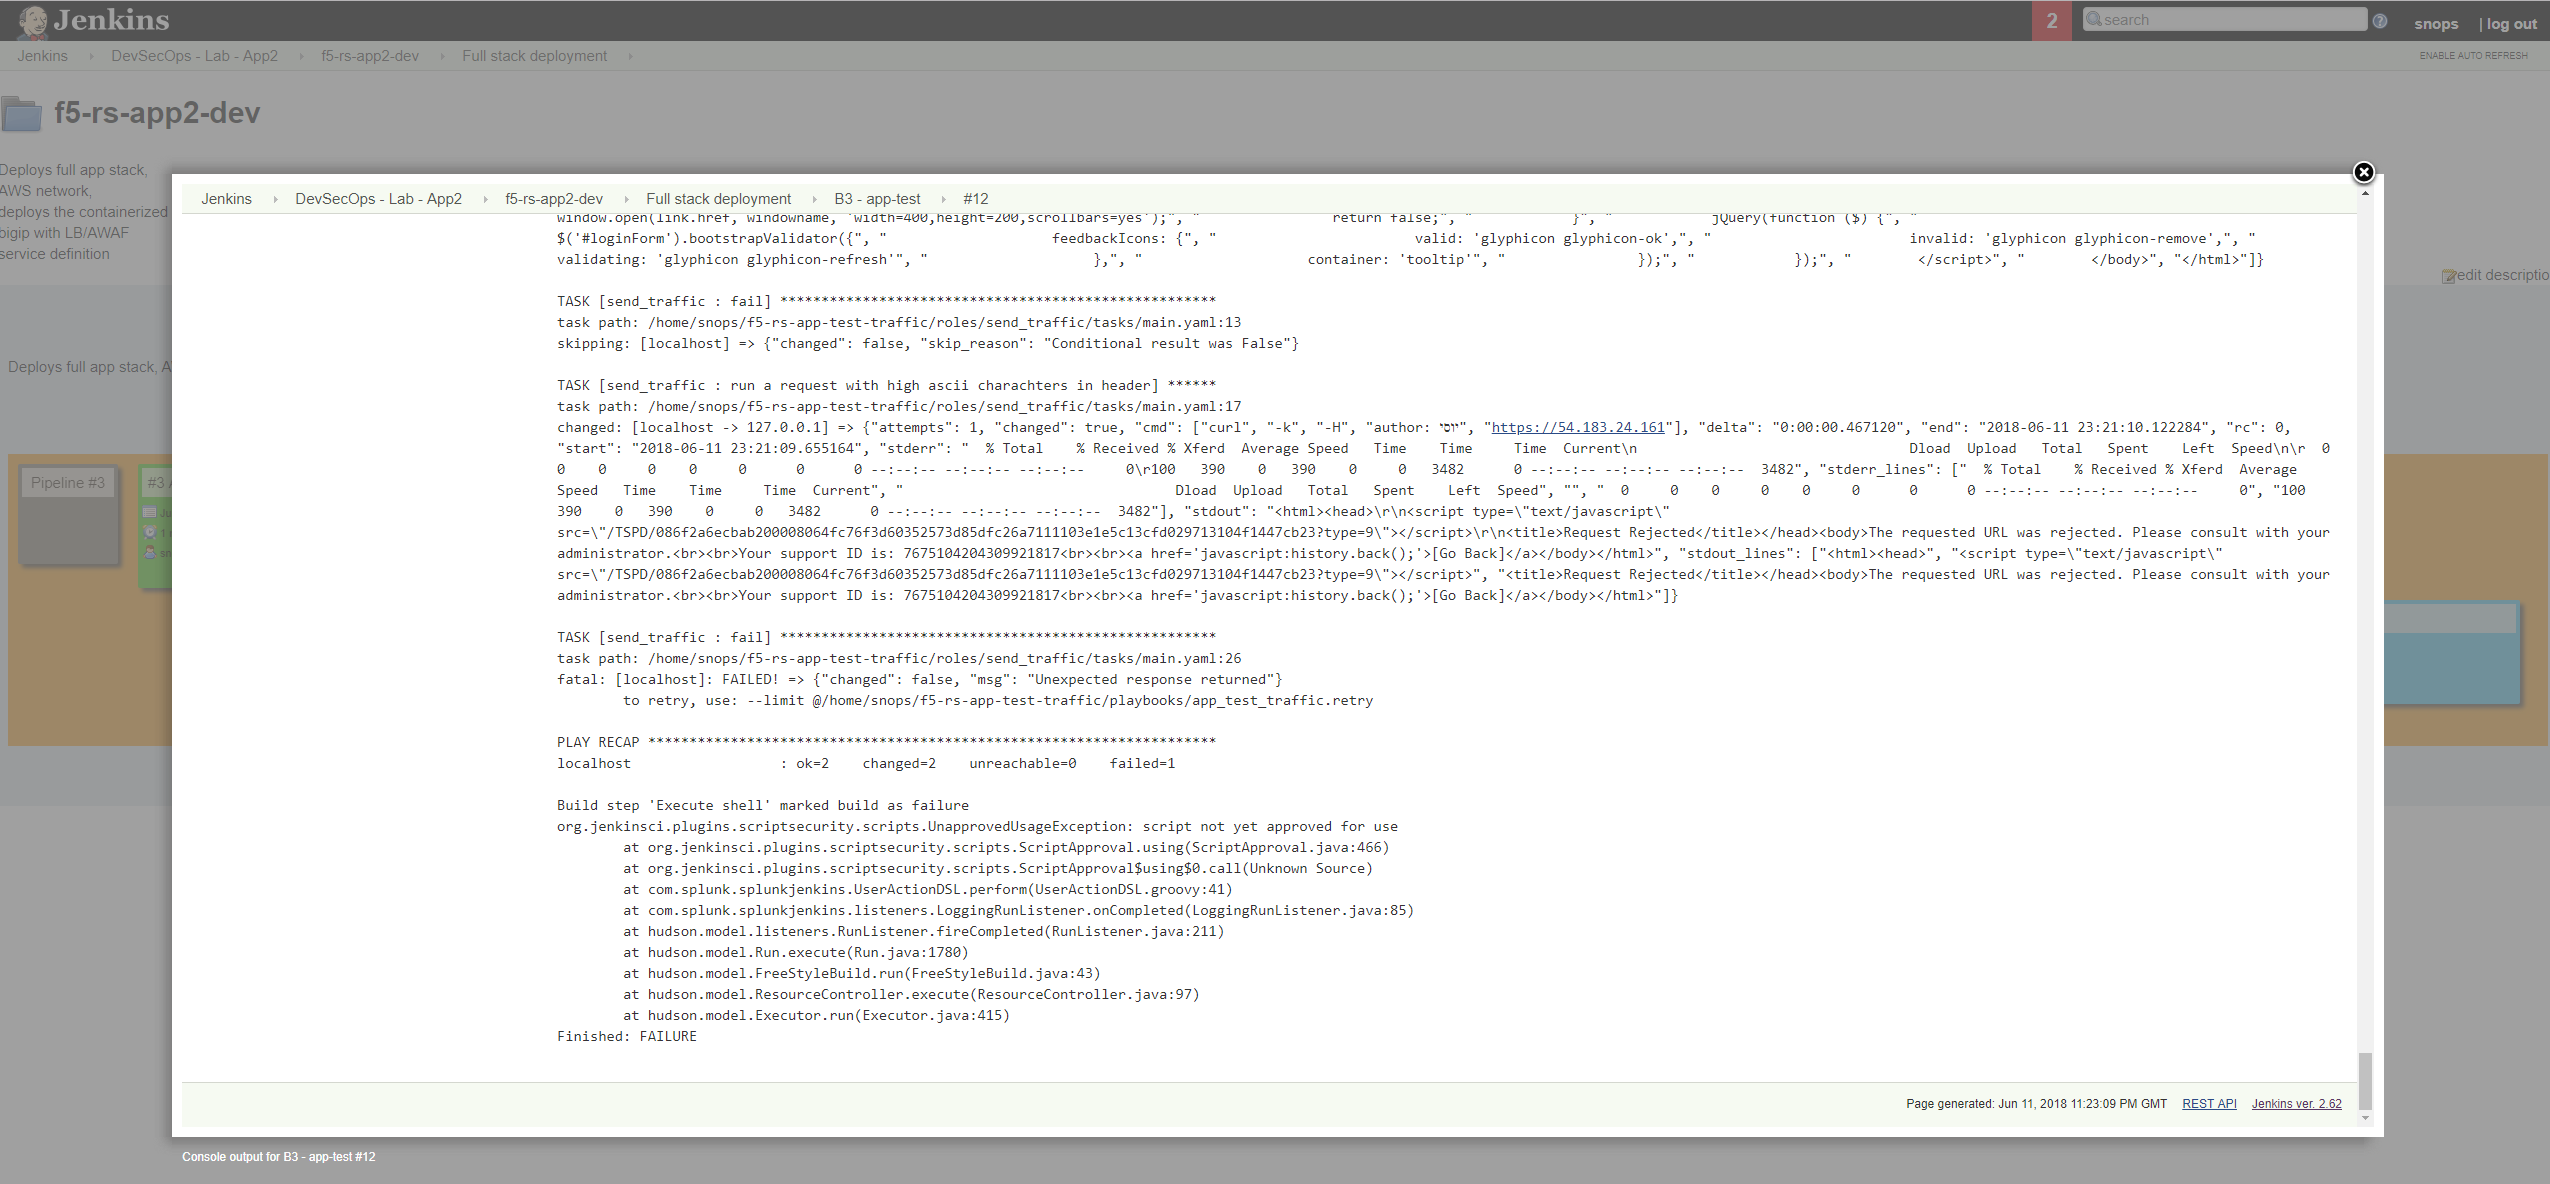
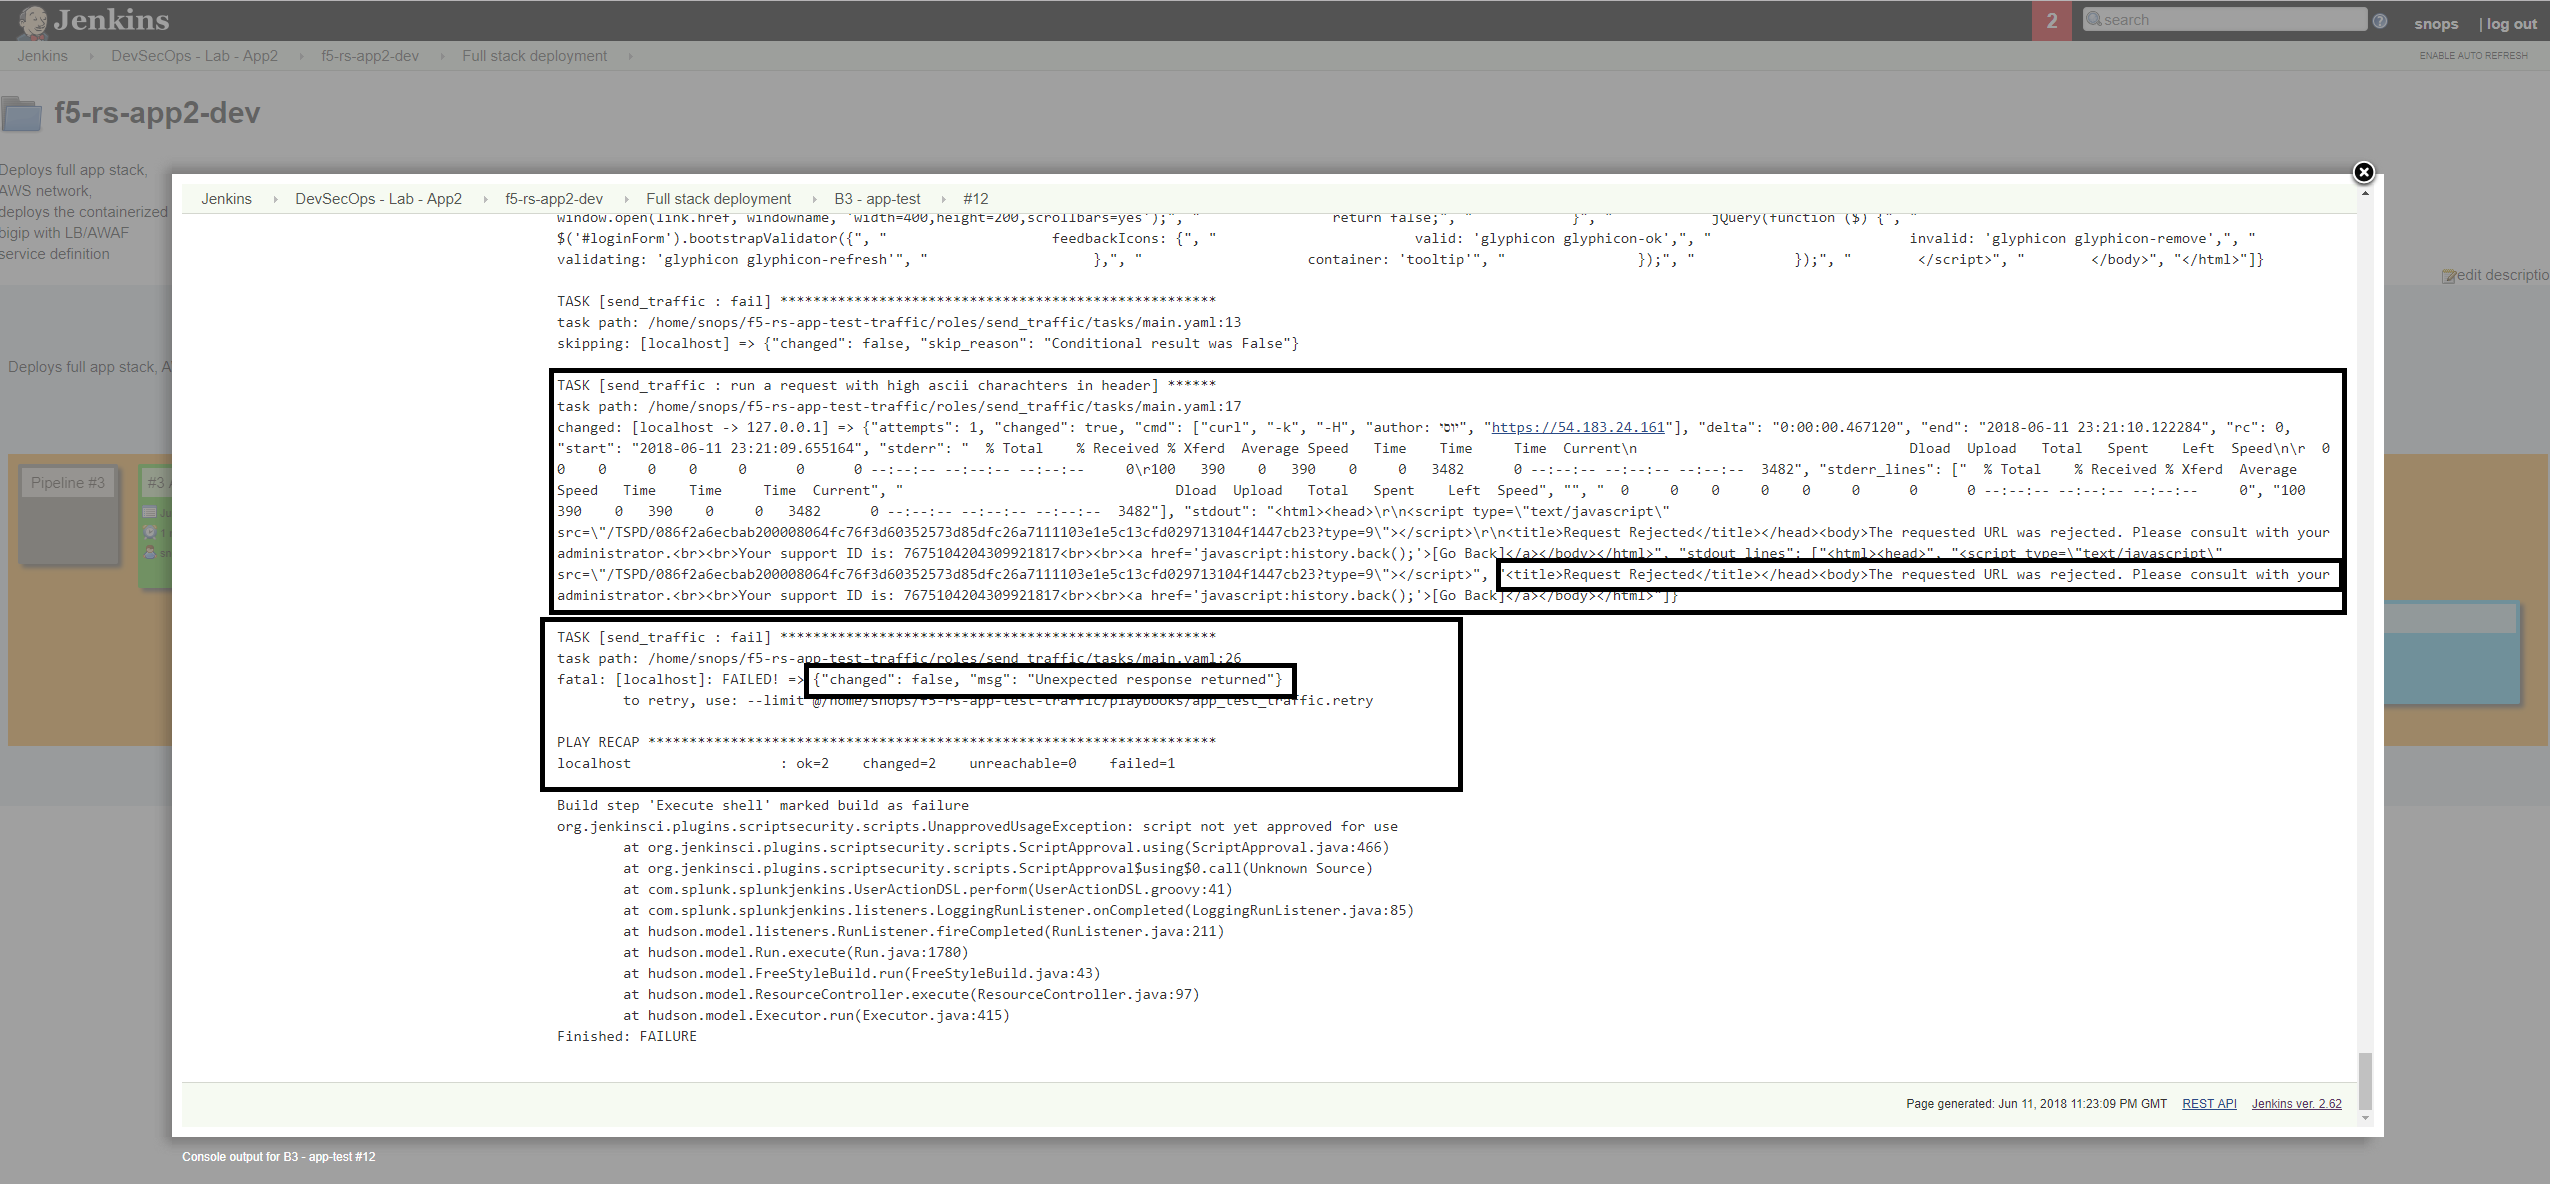
fixes

diff --git a/docs/solutions/devsecops/module1/lab3.rst b/docs/solutions/devsecops/module1/lab3.rst
@@ -1,20 +1,22 @@
-Lab 3: Deploy with new waf policy 
+Lab 3: (Dave) Deploy with a new waf policy 
 ----------------------------
 
 Background: 
 ~~~~~~~~~~~~~
 
-secops found a false positive on the waf policy, they fixed it and created a new version for that policy. 
+secops found a false positive on the waf policy template, they fixed it and created a new version for that policy. 
  
  
-Task 1 (Dave) - Update the policy you are using in 'DEV' 
+Task 1 - Update the policy you are using in 'DEV' 
 ~~~~~~~~~~~~~~~~~~~~~~~~~~~~~~~~~~~~~~~~~~~~~~~~~~~~~~~~
 
-deploy to dev again:
-~~~~~~~~~~~~~~~~~~~
+Update the infrastructure as code parameters file:
+~~~~~~~~~~~~~~~~~~~~~~~~~~~~~~~~~~~~~~~~~~~~~~~~~~~~~~
 
-ssh into the contianer, make sure you are connected as user 'jenkins' 
-go to the application git folder. check which branches are there and what is the active branch. (git branch) 
+we (Dave) got the message on a new waf template, we need to deploy the new template to the DEV environment.
+to do so we will edit the 'infrastructure as code' parameters file in dave's app2 repo. 
+ 
+go to the container CLI, go to the application git folder. check which branches are there and what is the active branch. (git branch) 
 you should be on the 'dev' branch. the files you see belong to the dev branch. 
 
 .. code-block:: terminal
@@ -30,34 +32,44 @@ Configure your information in git, this information is used by git (in this lab 
    git config --global user.name "Your Name"
    
  
-edit the iac_parameters.yaml file to point the deployment to the new ASM policy (linux-high-v01). then add the file to git and commit 
+edit the iac_parameters.yaml file to point the deployment to the new ASM policy (linux-high-v01). then add the file to git and commit.
+
+ - change line: waf_policy_name: "linux-high"
+ - to: waf_policy_name: "linux-high-v01"
 
 .. code-block:: terminal
 
    vi iac_parameters.yaml 
    git add iac_parameters.yaml
    git commit -m "changed asm policy"
-
-
    
    |dev-cmd-010|
    
-   
-go back to jenkins and open the 'f5-rs-app2-dev ' folder. choose the 'waf policy' tab , jenkins is set up to monitor the application repo. when a 'commit' is identified jenkins will start an automatic pipeline to deploy the service. it takes up to a minute for jenkins to start the pipeline. 
 
-jenkins takes the parametes from the git repo and uses them to deploy/update the service. 
+Service deployment update:
+~~~~~~~~~~~~~~~~~~~~~~~~~~~
 
-log on to the bigip again, check which ASM policies are there and which policy is attached to the 'App2 VIP. 
-check the 'traffic learning' for the security policy and verify you no longer see the 'high ascii charachters' 
+- we now have an active DEV environment, the app, network and bigip shouldn't change. 
+  the only change is to the SERVICE deployed on the Bigip. 
 
+- we have a dedicated pipeline view for the Service deployment. 
+
+- jenkins is set up to monitor the application repo. when a 'commit' is identified jenkins will start an
+  automatic pipeline to deploy the service. Jenkins takes the parameters from the file and uses them to start the ansible playbooks that will push the changes to the bigip. 
+  
+- that way it will update the waf policy on the bigip
+
+- go back to jenkins and open the 'f5-rs-app2-dev ' folder. choose the 'waf policy' tab ,  it takes up to 
+  a minute for jenkins to start the pipeline. you should see that the tasks start to run and the pipeline finishes successfully. 
+
+
+- log on to the bigip again, check which ASM policies are there and which policy is attached to the 'App2 VIP' 
+  check the 'traffic learning' for the security policy and verify you no longer see the 'high ascii charachters' 
+
+
+  
 this concludes the tests in the 'dev' environment. 
 we are now ready to push the changes to production. 
-
-
-
-
-
-
 
    
 .. |dev-cmd-010| image:: images/dev-cmd-010.PNG

diff --git a/docs/solutions/devsecops/module1/lab1.rst b/docs/solutions/devsecops/module1/lab1.rst
@@ -100,18 +100,21 @@ you can review the output of each job while its running, click on the small :gui
    |jenkins050|
    
    
-wait until all of the jobs have finished (turned green and got to the ). 
+wait until all of the jobs have finished (turned green and the app-test one is red ). 
 
-   |jenkins060|
+   |jenkins055|
 
-open slack - https://f5-rs.slack.com/messages/C9WLUB89F/
-go to the 'builds' channel. 
-use the search box on the upper right corner and filter by your username (student#). 
-jenkins will send to this channel the bigip and the application address. 
+   
+ - open slack - https://f5-rs.slack.com/messages/C9WLUB89F/
+ - go to the 'builds' channel. 
+ - use the search box on the upper right corner and filter by your username (student#). 
+ - jenkins will send to this channel the bigip and the application address. 
 
-   |jenkins070|
 
-open the bigip and login using the provided credentials. 
+   |slack040|
+
+open the bigip and login using the provided credentials (username: admin, password: the one you defined in the global parameters file)
+
 explore the objects that were created: 
 
 Cloud formation template:
@@ -132,12 +135,17 @@ rs-iapp service:
 ~~~~~~~~~~~~~~~~~
 deploys a service on the bigip using either AS2 or AS3 
 
+app-test:
+~~~~~~~~~~~~~~~~~
+good traffic generation to the app.
+
+
 rs-attacks:
 ~~~~~~~~~~~~~~~~~
-good and bad traffic generation to the app.
+bad traffic generation to the app. used for security testing. 
 
 
-try to access the app using the ip provided in the slack channel - that's the Elastic ip address that's tied to the VIP on the bigip. 
+try to access the app using the ip provided in the slack channel - that's the Elastic ip address that's tied to the VIP on the bigip.
 after ignoring the ssl error (because the certificate isn't valid for the domain) you should get to the Hackazone mainpage
 
    |hackazone010|
@@ -146,7 +154,18 @@ after ignoring the ssl error (because the certificate isn't valid for the domain
 Task 3 - Go over the test results 
 ~~~~~~~~~~~~~~~~~~~~~~~~~~~~~~~~~~~~
 
-future work - review the failed tests and report them.
+the deployment process failed because not all of the application tests completed successfully. 
+review the app-test job :guilabel: `console output`
+
+scroll to the bottom of the page, you should see the response with "request rejected", and the failure reason as "unexpected response returned"
+
+this is an indication that ASM has blocked the request. in our case it is a false positive. 
+
+   |jenkins056|
+   
+.. Note:: in this lab secops uses the same WAF policy template for many apps.
+   we don't want to create a 'snowflake' waf policy. so with this failure dave will escalete to secops. 
+   that ensures that the setting will be reviewd and if needed the policy template will get updated. 
    
    
 .. |jenkins010| image:: images/jenkins010.PNG 
@@ -159,8 +178,10 @@ future work - review the failed tests and report them.
    
 .. |jenkins050| image:: images/jenkins050.PNG
    
-.. |jenkins060| image:: images/jenkins060.PNG
+.. |jenkins055| image:: images/jenkins055.PNG
+
+.. |jenkins056| image:: images/jenkins056.PNG
    
-.. |jenkins070| image:: images/jenkins070.PNG
+.. |slack040| image:: images/Slack-040.PNG
    
 .. |hackazone010| image:: images/hackazone010.PNG

diff --git a/docs/solutions/devsecops/module1/lab2.rst b/docs/solutions/devsecops/module1/lab2.rst
@@ -15,19 +15,23 @@ go to 'traffic learning', make sure you are editing the 'linux-high' policy.
 check the requests that triggered suggestions. 
 
 you should see a suggestion on 'High ASCII characters in headers' , examine the request. this is a false positive. the app uses a different language in the header and it is legitimate traffic. 
+you can also see that the request comes from a trusted ip.
 accept the suggestion.
 
-	|Bigip-040|
-
-check the other suggestions, you'll see some signatures that were triggered. those are actual threats that are part of the automated security testing and we can ignore the suggestions. 
+	|Bigip-030|
 
 apply the policy. we will now export the policy to the git repo and start the automated build again to check that we are ready to promote it to production. 
 
-* you are applying the policy to DEV, secops shouldn't change the policy running in production (unless there is an emergency)
-
+.. Note:: you are applying the policy to DEV,
+   secops shouldn't change the policy running in production 
+   ** unless there is a true emergency 
+   
 
 Task 2 - export the security policy to the waf policies templates repo.
 ~~~~~~~~~~~~~~~~~~~~~~~~~~~~~~~~~~~~~~~~~~~~~~~~~~~~~
+
+secops have updated the policy with a setting that makes sense to update on the general template. 
+we will now export the policy from the bigip to the waf-policies repo (managed by secops)
 
 go back to jenkins, under the 'f5-rs-app2-dev' there is a job that will export the policy and save it to the git repo - 'SEC export waf policy'
 
@@ -39,6 +43,11 @@ click on this job and choose 'Build with Parameters' from the left menu.
 	
 you can leave the defaults, it asks for two parameters. the first parameter is the name of the policy on the bigip and the other is the new policy name in the git repo.  
 
+.. Note:: why saving the template with a different version ? 
+   changes should be tracked, more than that we should allow app teams to 'control their own destiny' 
+   allowing them to choose the right time and place to update the waf policy in their environment. 
+   by versioning the policies we ensure their control over which template gets deployed. 
+   
 click on 'build' 
 
 check the slack channel - you should see a message about the new security policy that's ready. 
@@ -46,11 +55,11 @@ this illustrates how chatops can help communicate between different teams.
 
 	|Slack-030|
 
-the security admin role ends here. it's now up to the appowner to run the pipeline again. 
+the security admin role ends here. it's now up to Dave to run the pipeline again. 
 
 
    
-.. |Bigip-040| image:: images/Bigip-040.PNG
+.. |Bigip-030| image:: images/Bigip-030.PNG
    
 .. |jenkins075| image:: images/jenkins075.PNG 
    

diff --git a/docs/solutions/devsecops/module1/lab4.rst b/docs/solutions/devsecops/module1/lab4.rst
@@ -9,24 +9,30 @@ we completed tests in DEV, both functional tests and security tests have passed.
 Task 1 - merge infrastructure as code file from dev
 ~~~~~~~~~~~~~~~~~~~~~~~~~~~~~~~~~~~~~~~~~~~~~~~~~~~~~~~~
 
-we will 'merge' the app2 dev branch with the master branch so that the production deployment will use the correct policy. 
-on the /home/snops/f5-rs-app2 folder:
+- we will 'merge' the app2 dev branch with the master branch.
+  so that the production deployment will use the correct policy. 
+
+- on the /home/snops/f5-rs-app2 folder:
 
 .. code-block:: terminal
  
    git checkout master
    git merge -m dev "changed asm policy"
 
-* the merge will trigger a job in jenkins that's configured to monitor this repo - 'Push waf policy', since the environment isn't deployed yet it will fail, either cancel the job or let it fail. 
-
+.. Note:: the merge will trigger a job in jenkins that's configured to monitor this repo - 'Push waf policy',
+          since the environment isn't deployed yet it will fail, either cancel the job or let it fail.     
 
 Task 2 deploy PROD:
 ~~~~~~~~~~~~~~~~~~
 
-we will deploy the environment. 
-go to the 'f5-rs-app2-prod' folder, choose the 'Full stack deployment' view and run the pipeline. 
-go to slack to get the ip's for the bigip and the app. 
+.. Note:: in this lab we manually deploy PROD after the tests have completed.
+          this manual step can easily be automated. what are the metrics that we need to verify successful deployment ? 
+		  how can splunk analytics / bigiq 6.0 help with that ? 
 
-open the bigip and verify that you don't see the 'high ascii' false positive. 
+- go to the 'f5-rs-app2-prod' folder, choose the 'Full stack deployment' view and run the pipeline. 
 
-verify the security policy that's attached to the VIP. 
+- go to slack  https://f5-rs.slack.com/messages/C9WLUB89F/ to get the ip's for the bigip and the app. 
+
+- open the bigip and verify that you don't see the 'high ascii' false positive. 
+
+- verify the security policy that's attached to the VIP. 
